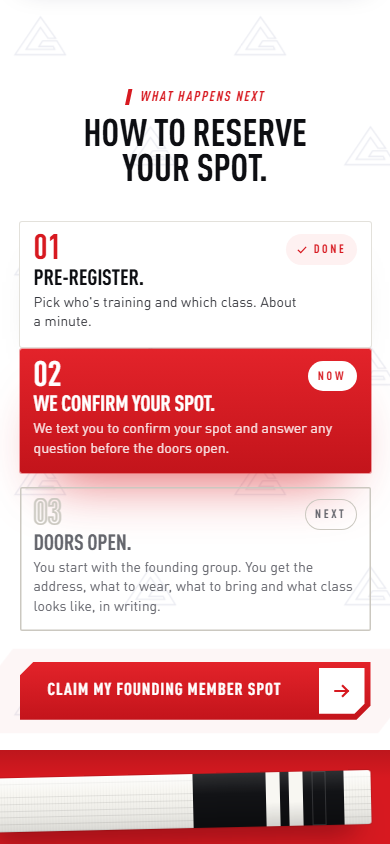
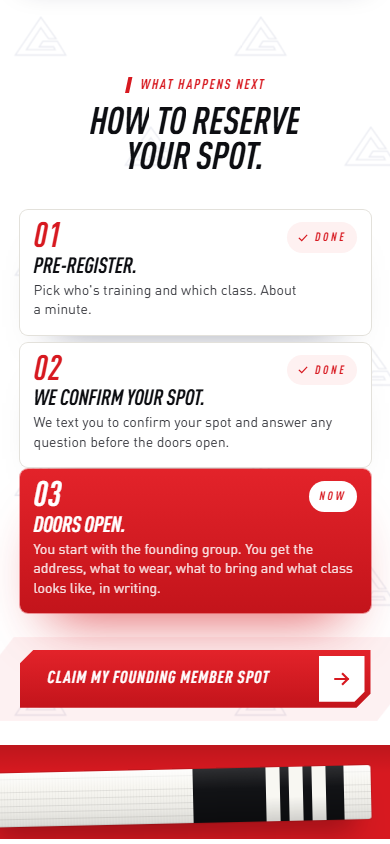
fix(mobile): remove the fixed bottom button; reserve stage pins only where it fits, cards light up in normal scroll on phones

diff --git a/src/components/sections/Reserve.tsx b/src/components/sections/Reserve.tsx
@@ -18,7 +18,9 @@
    vazados, em contorno tracejado. A cada passo a ponteira preta ganha um
    grau (os três encaixes vazios já
    aparecem, então se vê o que falta). Sem movimento (ou reduced motion):
-   tudo aceso, a faixa com os três graus, sem palco preso.
+   tudo aceso, a faixa com os três graus, sem palco preso. Celular e telas
+   baixas: sem palco preso (não caberia); cada card acende quando chega ao
+   meio da tela e a faixa fecha a seção logo depois do botão.
    ════════════════════════════════════════════════════════════════════ */
 
 import { useCallback, useEffect, useRef, useState } from 'react'
@@ -36,7 +38,8 @@ export function Reserve() {
   const [live, setLive] = useState(false)
   const [step, setStep] = useState(0)
   const root = useRef<HTMLElement>(null)
-  const geo = useRef({ top: 0, run: 1 })
+  const list = useRef<HTMLOListElement>(null)
+  const geo = useRef({ top: 0, run: 1, pinned: true, cards: [] as number[] })
   const last = useRef(0)
 
   useEffect(() => setLive(document.documentElement.classList.contains('motion')), [])
@@ -46,11 +49,23 @@ export function Reserve() {
     if (!el) return
     geo.current.top = docTop(el)
     geo.current.run = Math.max(1, el.offsetHeight - window.innerHeight)
+    // o palco só prende quando cabe numa tela (o CSS decide pela largura e altura)
+    const stage = el.firstElementChild as HTMLElement | null
+    geo.current.pinned = !!stage && getComputedStyle(stage).position === 'sticky'
+    geo.current.cards = Array.from(list.current?.children ?? []).map((c) => docTop(c as HTMLElement))
   }, [])
 
-  const tick = useCallback((y: number) => {
-    const p = clamp01((y - geo.current.top) / geo.current.run)
-    const next = Math.min(total - 1, Math.floor(p * total))
+  const tick = useCallback((y: number, vh: number) => {
+    const g = geo.current
+    let next = 0
+    if (g.pinned) {
+      next = Math.min(total - 1, Math.floor(clamp01((y - g.top) / g.run) * total))
+    } else {
+      // sem palco: o card acende quando o topo dele passa de 62% da tela
+      g.cards.forEach((top, i) => {
+        if (top < y + vh * 0.62) next = i
+      })
+    }
     if (next !== last.current) {
       last.current = next
       setStep(next)
@@ -68,7 +83,7 @@ export function Reserve() {
           <Lines id="how-title" className="d h2 how__title" parts={reserve.title} />
         </div>
 
-        <ol className="shell how__steps">
+        <ol ref={list} className="shell how__steps">
           {steps.map((s, i) => {
             const state = !live ? 'done' : i < step ? 'done' : i === step ? 'now' : 'next'
             return (

diff --git a/src/styles/sections.css b/src/styles/sections.css
@@ -798,29 +798,6 @@ html.motion .foot__track {
   }
 }
 
-/* ════════ BARRA FIXA (celular) ════════ */
-.sticky {
-  position: fixed;
-  inset: auto 0 0;
-  z-index: 55;
-  padding: 10px var(--gutter) calc(10px + env(safe-area-inset-bottom));
-  background: rgb(var(--paper-rgb) / 0.96);
-  box-shadow: 0 -1px 0 var(--line);
-  transform: translateY(110%);
-  transition: transform 0.5s var(--ease);
-}
-.sticky[data-show] {
-  transform: none;
-}
-html.bk-open .sticky {
-  transform: translateY(110%);
-}
-@media (min-width: 1024px) {
-  .sticky {
-    display: none;
-  }
-}
-
 /* ════════ CTA inverso (o talão do ingresso): branco com a seta vermelha ════════ */
 .cta--inverse {
   color: var(--red);
@@ -2634,20 +2611,24 @@ html.motion .ready__cols .rise {
   margin-top: clamp(22px, 3.6svh, 44px);
 }
 
-/* com movimento: a cena fica no palco (sticky) por 0,5 tela a cada passo = ~1,5 tela */
-html.motion .how {
-  height: calc(100svh + 3 * 50svh);
-}
-html.motion .how__stage {
-  position: sticky;
-  top: 0;
-  height: 100svh;
-  justify-content: flex-start;
-  padding: calc(var(--nav-h) + clamp(8px, 3svh, 40px)) 0 0;
-}
-/* no palco o tatame encosta na borda de baixo da tela */
-html.motion .how__mat {
-  margin-top: auto;
+/* com movimento e espaço: a cena fica no palco (sticky) por 0,5 tela a cada
+   passo = ~1,5 tela. Só onde cabe numa tela: largura de 900px (cards lado a
+   lado) e altura de 760px. No celular e em telas baixas a seção rola normal. */
+@media (min-width: 900px) and (min-height: 760px) {
+  html.motion .how {
+    height: calc(100svh + 3 * 50svh);
+  }
+  html.motion .how__stage {
+    position: sticky;
+    top: 0;
+    height: 100svh;
+    justify-content: flex-start;
+    padding: calc(var(--nav-h) + clamp(8px, 3svh, 40px)) 0 0;
+  }
+  /* no palco o tatame encosta na borda de baixo da tela */
+  html.motion .how__mat {
+    margin-top: auto;
+  }
 }
 @media (max-width: 767px) {
   .how {

diff --git a/src/App.tsx b/src/App.tsx
@@ -1,7 +1,6 @@
 import { BookingProvider } from '@/nd/Booking'
 import { Nav } from '@/components/layout/Nav'
 import { Footer } from '@/components/layout/Footer'
-import { StickyCta } from '@/components/layout/StickyCta'
 import { Hero } from '@/components/sections/Hero'
 import { Marquee } from '@/components/sections/Marquee'
 import { Offer } from '@/components/sections/Offer'
@@ -48,7 +47,6 @@ export default function App() {
           <Faq />
         </main>
         <Footer />
-        <StickyCta />
       </div>
     </BookingProvider>
   )

diff --git a/src/styles/tokens.css b/src/styles/tokens.css
@@ -57,7 +57,6 @@
   --max: 1920px;
   --u: min(1vw, 19.2px);
   --nav-h: 64px;
-  --sticky-h: 0px;
   --r: 8px; /* cantos levemente arredondados (pedido do Adryan) */
   --r-nav: 14px; /* a única exceção: o cartão flutuante da nav */
 
@@ -66,11 +65,6 @@
   --ease-spring: cubic-bezier(0.34, 1.4, 0.64, 1); /* só o tranco da faixa e o pouso dos cards */
 }
 
-@media (max-width: 1023px) {
-  .gbr {
-    --sticky-h: calc(72px + env(safe-area-inset-bottom));
-  }
-}
 @media (min-width: 1024px) {
   .gbr {
     --nav-h: 80px;

diff --git a/src/data/site.ts b/src/data/site.ts
@@ -472,8 +472,6 @@ export const footer = {
   madeByHref: 'https://novodash.com',
 }
 
-export const stickyCta = { label: 'Claim my Founding spot', region: 'Claim a Founding Member spot' }
-
 /* ── Formulário (kit nd, fluxo da Rowlett) ─────────────────────────── */
 export const form = {
   title: 'Hold my spot',

diff --git a/src/styles/index.css b/src/styles/index.css
@@ -88,8 +88,6 @@ body {
   -moz-osx-font-smoothing: grayscale;
   text-rendering: optimizeLegibility;
   overflow-x: clip;
-  /* conteúdo nunca fica atrás da barra fixa */
-  padding-bottom: var(--sticky-h);
 }
 
 /* Resets com especificidade ZERO (:where) — nunca vencem um componente. */

diff --git a/src/track.ts b/src/track.ts
@@ -25,7 +25,6 @@ export type CtaOrigin =
   | 'reserve'
   | 'opening'
   | 'faq'
-  | 'sticky'
   | 'footer'
   | 'menu'
 

diff --git a/public/memory/design-decisions.md b/public/memory/design-decisions.md
@@ -156,3 +156,5 @@ A tabela viva é a §20 do `prd-GBR-001.md` (23 itens). Resumo do que trava o mo
 - **Cantos levemente arredondados (Adryan):** --r passa de 2px para 8px (cards, fotos, quadro, chips, formulário); as caixas do contador ganharam o mesmo raio. O botão mantém os cantos cortados.
 - **Horários em 100vh (Adryan):** no desktop a seção tem uma tela de altura: título e filtros na mesma linha, linhas do quadro proporcionais à altura da tela, nota numa linha só embaixo. O botão da seção saiu (pedido do Adryan). No celular já cabia (abas por dia).
 - **Fotos dos cards dos pais (Adryan):** as três fotos definitivas (public/img/why → brand/parents) entram nos cards, na ordem 1, 2, 3; publicadas em 4:5, 360 e 486px, sem ampliar e sem curva de cor. Sai a foto antiga "parents" (6T7A0276), que nada mais usava. A foto 2 mostra a placa de outra academia ("Austin Land Village, TX"): fica no aviso de publicação, com a autorização de imagem das crianças.
+- **Sem barra fixa no celular (Adryan):** sai o StickyCta (componente, CSS, copy, origem de tracking "sticky" e o respiro --sticky-h no pé da página).
+- **Como reservar no celular (Adryan: o botão atrapalhava a faixa):** o palco preso só existe a partir de 900px de largura E 760px de altura (onde cabe numa tela). No celular e em telas baixas a seção rola normal: cada card acende quando o topo dele passa de 62% da tela, e o tatame com a faixa fecha a seção logo depois do botão.
